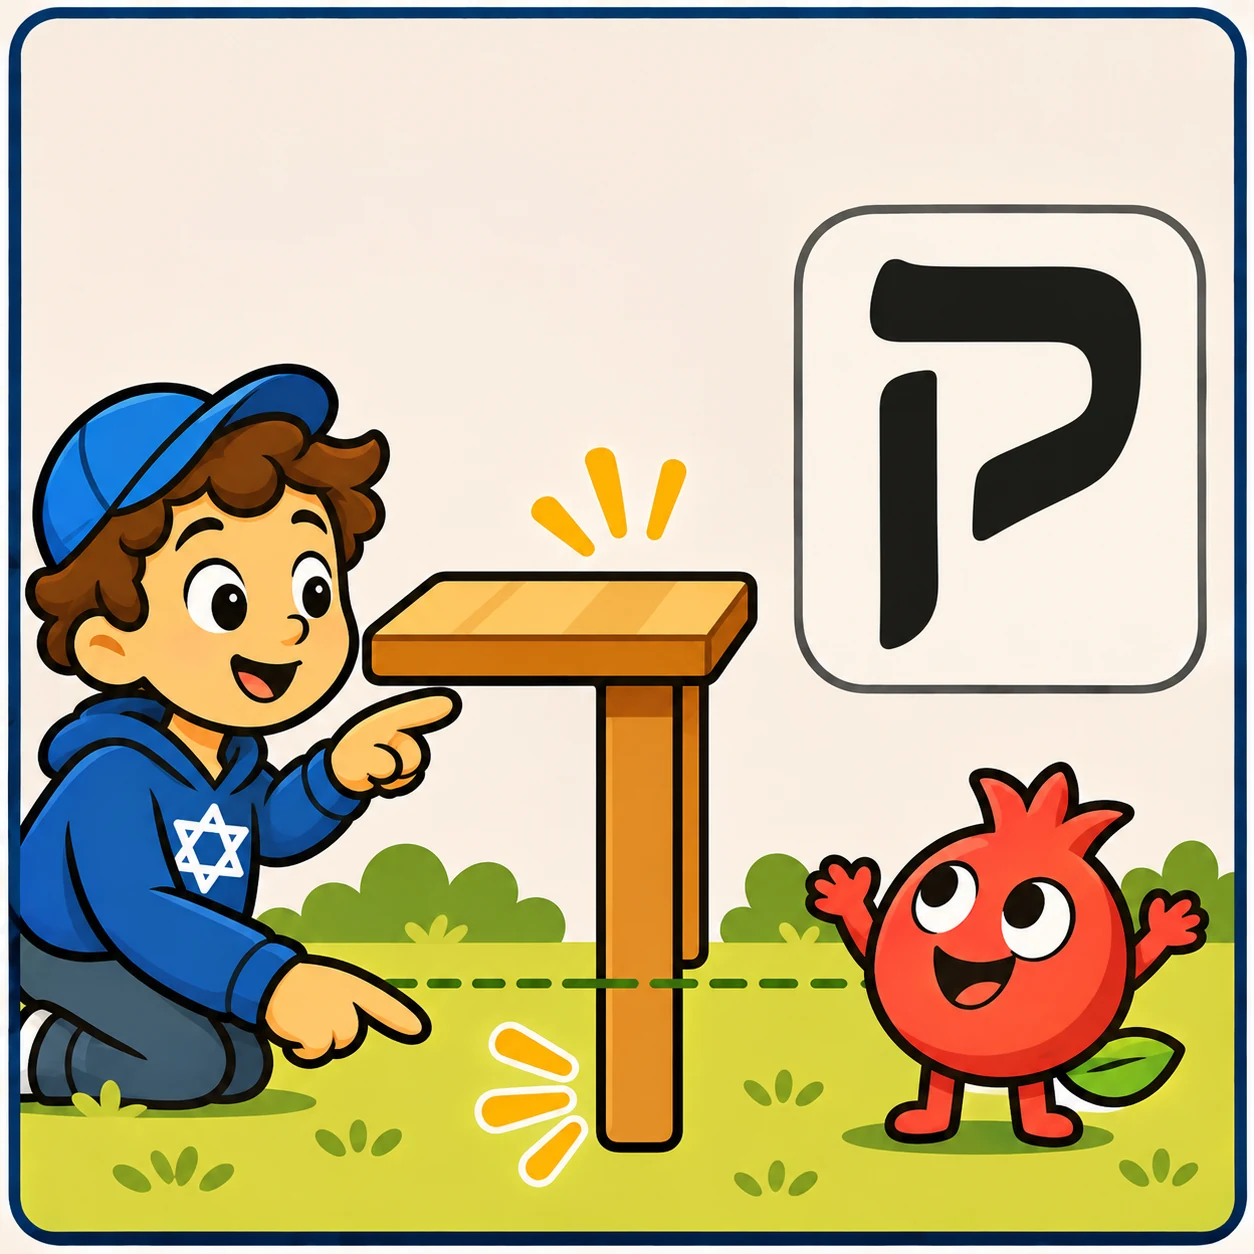
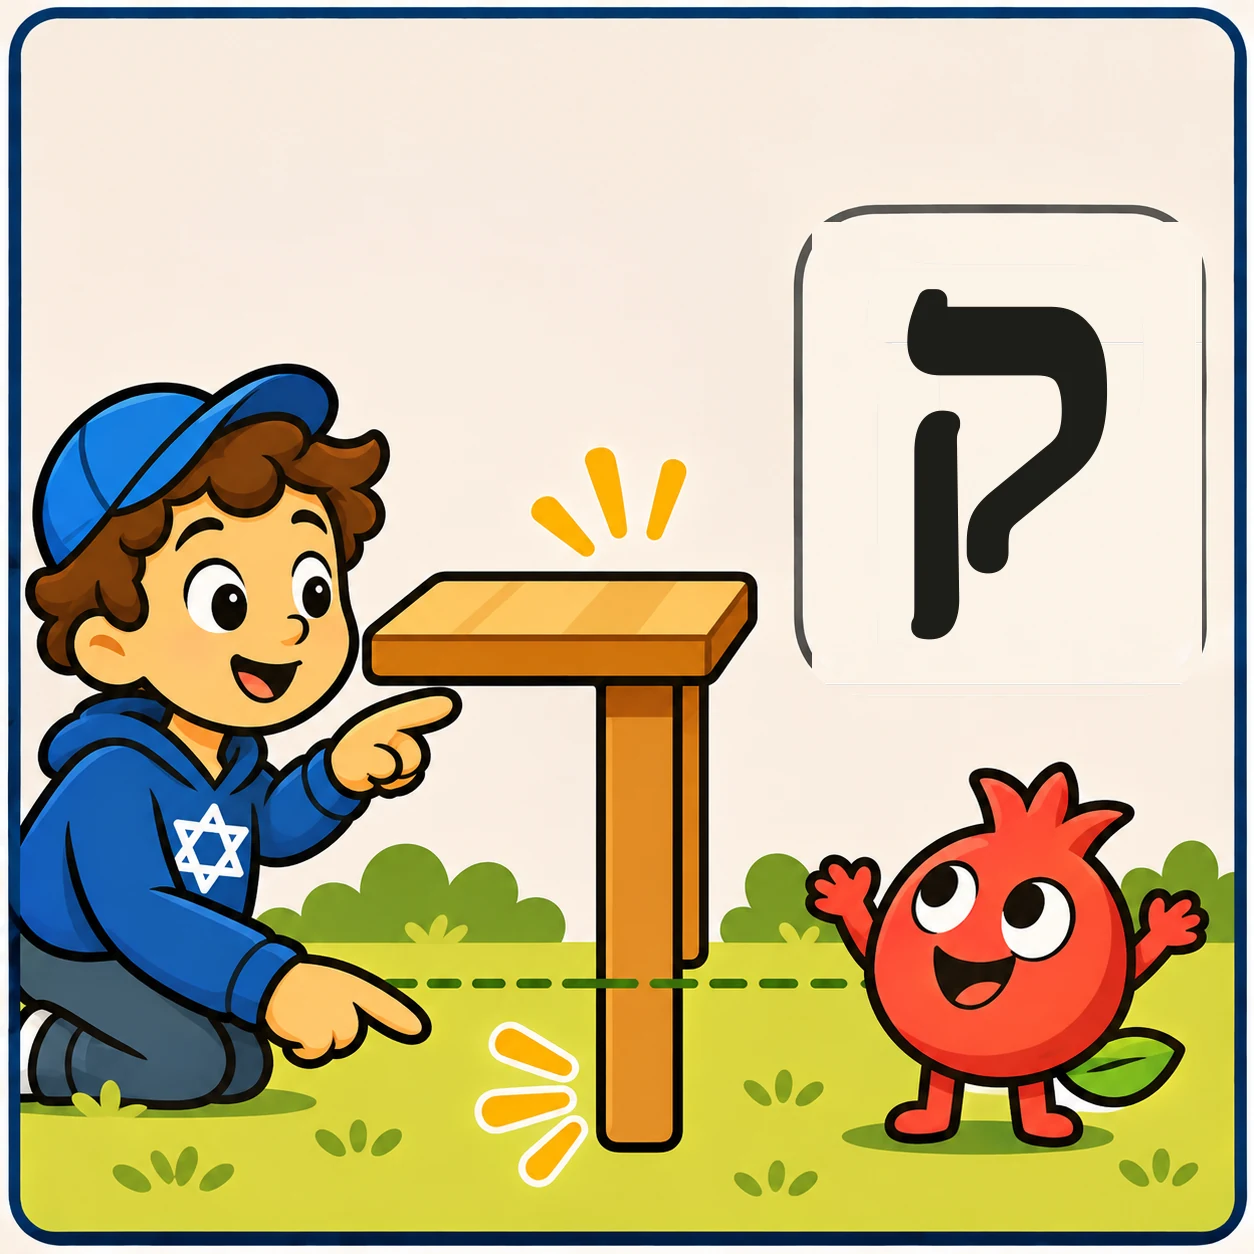
Letter Atlas: show the meet-the-letter cartoon for every letter beside the atlas picture; swap in the corrected qof picture (letter redrawn in the app typeface, the rest untouched); record the 2026-11-07 cartoon review and clear the flags

Changed region(s): [[0.6531, 0.1555, 0.9641, 0.5598]]

diff --git a/src/letters/atlas.view.js b/src/letters/atlas.view.js
@@ -8,6 +8,7 @@ import { warningAfterWrongTap } from './interference.js';
 import { audioButton } from '../shell/audio-access.js';
 import { letterSound, congregationOf } from '../pronunciation/forTradition.js';
 import { loadMemoryChain, entryFor, buildMemoryCard, memoryFallback } from './memorycard.js';
+import { letterMeet } from '../img/scenes.js';
 
 const DATA = (name) => new URL('../../data/letters/' + name, import.meta.url).href;
 const PRON = (name) => new URL('../../data/pronunciation/' + name, import.meta.url).href;
@@ -216,6 +217,7 @@ export function mount(root, ctx = {}) {
       const cardEntry = own || viaParent, chained = !!cardEntry;
       const panel = h('div', { class: 'panel', 'data-detail': sel.id },
         ctx.img?.(h, { kind: 'letter', id: sel.id, script: state.script, variant: state.alt ? 'alt' : undefined, width: 600, class: 'at-pic' }),
+        letterMeet(h, ctx, sel.id, { width: 600, class: 'at-meet' }),
         h('div', { class: 'row' },
           h('span', { class: 'big', dir: 'rtl', lang: 'he' }, sel.glyph),
           h('div', {}, h('strong', {}, sel.name), h('br'), h('span', {}, (sel.ipa ? '/' + sel.ipa + '/  ' : '') + (m.soundAnchor || sel.soundEn || '')),

diff --git a/assets/css/app.css b/assets/css/app.css
@@ -186,6 +186,8 @@ label.btn:has(+ input[type=file]:focus-visible) { outline: 3px solid var(--focus
 .alef-img{display:block;height:auto;max-width:100%;border-radius:.5rem}
 .vc-pic,.th-pic{width:100%;max-width:14rem}
 .at-pic{width:100%;max-width:18rem;margin:0 auto .5rem}
+.at-meet{width:100%;max-width:18rem;margin:0 auto .5rem}
+.letter-meet{height:auto;max-width:100%}
 .l-scene,.fv-pic{width:100%;max-width:36rem;margin:0 0 .75rem}
 .pl-pic{max-width:9rem;margin:0 auto .5rem}
 /* Teachers band (src/shell/companions.js): Ari and Noa on every screen, posed for the page. */
